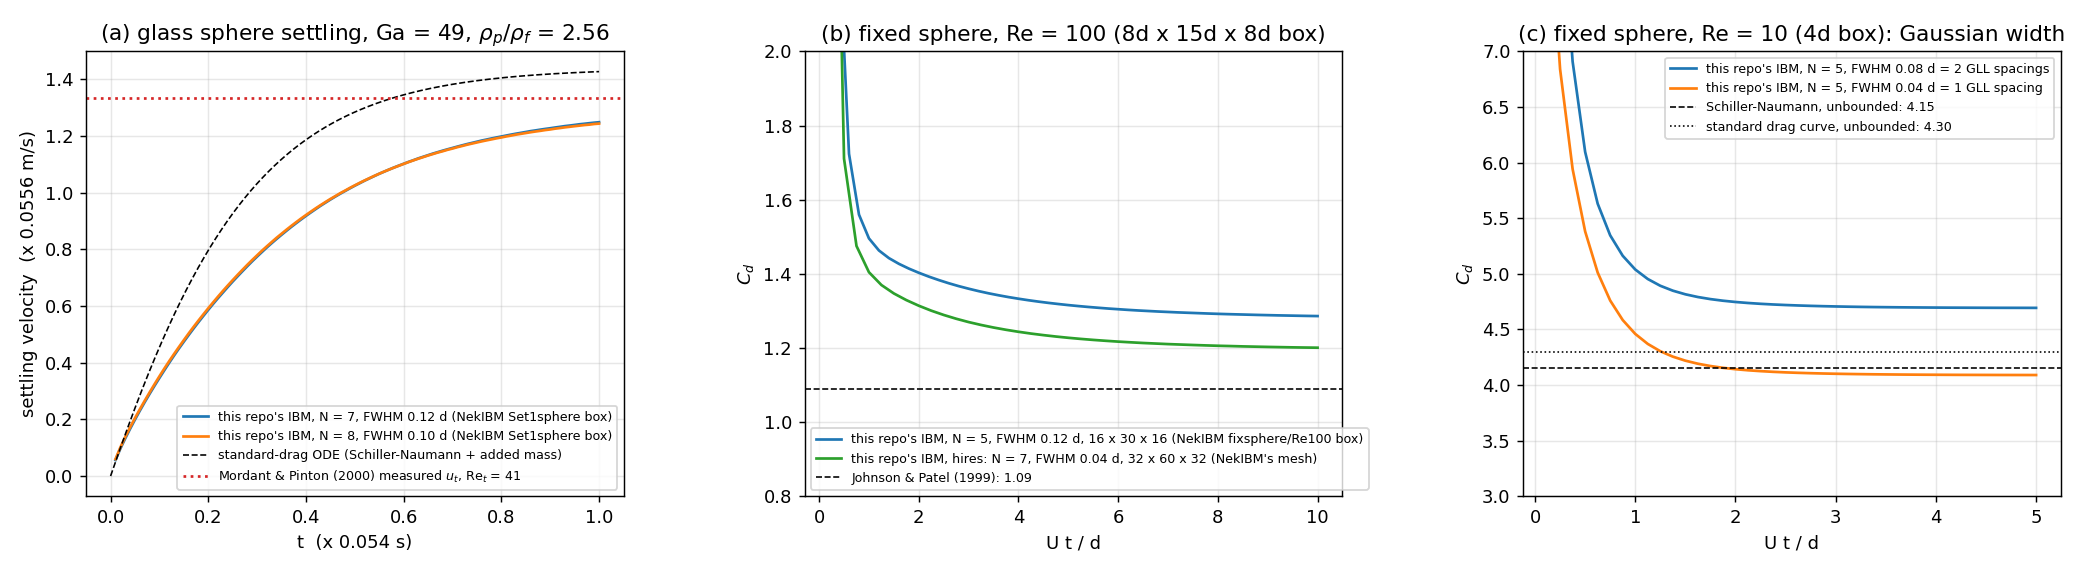
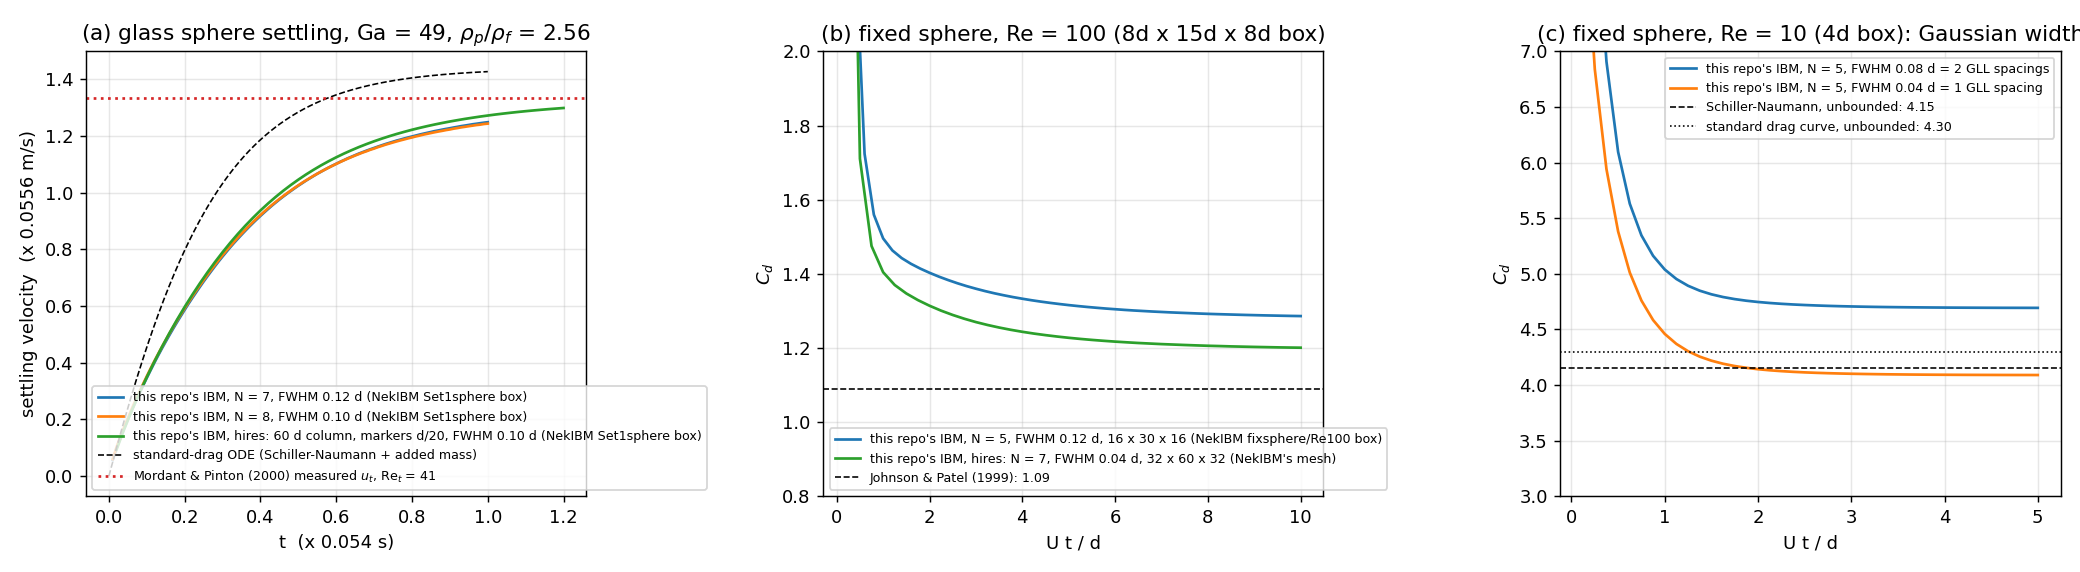
Settling sphere on NekIBM's mesh (Tuolumne, 16 GPUs): u_t within 2.5 % of Mordant & Pinton

diff --git a/docs/design.md b/docs/design.md
@@ -565,7 +565,7 @@ with the wake behind it.
 
 | case | NekIBM input | reference | this repo | notes |
 |---|---|---|---|---|
-| settling glass sphere, Ga 49.1, rho_p/rho_f 2.56 | `Set1sphere` (nu 0.005416, d 1/6, g 9.81, 1.2 x 1.2 cross-section periodic) | Mordant & Pinton: Re_t = 41, u_t = 1.332 | u = 1.249 at t = 1 (N = 7, FWHM 0.12 d), 1.244 (N = 8, FWHM 0.10 d); Re 38.4, force at 98 % of the net weight | 6 % slow; filter-insensitive (0.4 %); the 7.2 d lateral period hinders settling by up to 14 % in the Stokes limit (Hasimoto, phi^(1/3) = 0.083), less at Re 41; standard-drag ODE gives 1.427 (Re 44), 7 % above the measurement |
+| settling glass sphere, Ga 49.1, rho_p/rho_f 2.56 | `Set1sphere` (nu 0.005416, d 1/6, g 9.81, 1.2 x 1.2 cross-section periodic) | Mordant & Pinton: Re_t = 41, u_t = 1.332 | u = 1.249 at t = 1 (N = 7, FWHM 0.12 d, laptop), 1.244 (N = 8, FWHM 0.10 d); on NekIBM's mesh (`hires`: 21 x 180 x 21, N = 7, markers d/20, 60 d column, Tuolumne 16 MI300A) u = 1.273 at t = 1 and 1.299 at t = 1.2 (Re 40.0), still rising slowly | −6 % → −2.5 % with resolution; filter-insensitive (0.4 %); the 7.2 d lateral period (same in `hires`) hinders settling by up to 14 % in the Stokes limit (Hasimoto, phi^(1/3) = 0.083), less at Re 41; standard-drag ODE gives 1.427 (Re 44), 7 % above the measurement |
 | fixed sphere, Re 100 | `fixsphere/Re100` box (8d x 15d x 8d, inflow/outflow in y, periodic x, z) | Johnson & Patel: C_d = 1.09, standing eddy 0.87 d | C_d = 1.286 at U t/d = 10 (N = 5, FWHM 0.12 d, 16 x 30 x 16 elements, laptop), eddy 1.00 d; C_d = 1.201, eddy 0.95 d on NekIBM's mesh (`hires`: 32 x 60 x 32, N = 7, FWHM 0.04 d, Tuolumne, 8 MI300A) | +18 % → +10 % with the sharper interface (marker slip 3.9 % → 2.8 %); C_d still falling by 0.002 per d/U at U t/d = 10, so part of the rest is the developing wake |
 | fixed sphere, Re 10 | `simple` box (4d)^3 | standard drag 4.15–4.3 | C_d = 4.69 with FWHM 0.08 d (two GLL spacings, marker slip 18 %), 4.09 with FWHM 0.04 d (one spacing, slip 31 %) | the two widths bracket the reference: a wide Gaussian enlarges the body, a one-cell one under-enforces no-slip; converging needs a finer grid, not a narrower filter |
 
@@ -573,10 +573,12 @@ What this shows: with NekIBM's own set-ups the IBM reproduces the reference
 drag and settling velocity to 6–18 % on the laptop grids, with the sign and
 size expected from the Gaussian interface width at d/10 resolution (fixed
 spheres) and from the periodic-array hindrance of NekIBM's narrow column
-(settling). On NekIBM's own Re 100 mesh (section 6, Tuolumne) the drag
+(settling). On NekIBM's own meshes (section 6, Tuolumne) the Re 100 drag
 error halves to +10 % and the standing eddy shortens from 1.00 d to 0.95 d
-(reference 0.87 d), i.e. the interface width is the leading error and the
-scheme converges towards the reference as it is refined; the remaining
+(reference 0.87 d), and the settling sphere comes within 2.5 % of the
+measured terminal velocity (1.299 at t = 1.2, still rising, against
+1.332), i.e. the interface width is the leading error and the scheme
+converges towards the references as it is refined; the remaining
 offset at U t/d = 10 includes a still-developing wake (Johnson & Patel's
 value is the steady state). The paper's numbers were not available, so the
 comparison is to the experiments and correlations NekIBM itself used.
@@ -618,7 +620,10 @@ side dominates at 21M points). `pbatch` carried a backlog of several
 thousand jobs, so the Re 100 hires run went through `pdebug` on two nodes
 (2000 steps in 41 min, `cases/ibm_sphere_re100/hires/tuolumne_8gpu.log`, the
 `sphere:` history plus every 50th step time); the settling hires case waits
-in `pbatch` via `scripts/tuolumne_batch.sh`. ppiclF is pre-built on a login
+in `pbatch` via `scripts/tuolumne_batch.sh`; it was finally run in `pdebug` on
+4 nodes (16 GPUs, 2.5 s/step: 1.7x faster than 8 GPUs; 32 ranks segfaulted
+in the set-up, not pursued) for 1207 steps to t = 1.2
+(`cases/ibm_settling_sphere/hires/tuolumne_16gpu.log`). ppiclF is pre-built on a login
 node (gslib download) into `build/<case path with / as _>`; `| head` on a
 running job's output file closes the pipe and kills the job.
 

diff --git a/docs/validation.md b/docs/validation.md
@@ -34,7 +34,7 @@ scripts that make them in `../scripts/`.
 | V9 | plane jet from parcels vs Bickley | validation | `jet_bickley` | u_c within 3.5 % |
 | V10 | fixed sphere Re 10 (NekIBM `simple` box), filter-width bracket | validation | `ibm_fixed_sphere`, `_fine` | 4.09 / 4.69 vs 4.15–4.3 |
 | V11 | fixed sphere Re 100 vs Johnson & Patel, two resolutions | validation | `ibm_sphere_re100`, `hires` | C_d +18 % → +10 % |
-| V12 | settling glass sphere vs Mordant & Pinton | validation | `ibm_settling_sphere`, `_fine`, `hires` | u_t −6 % (laptop); hires running |
+| V12 | settling glass sphere vs Mordant & Pinton | validation | `ibm_settling_sphere`, `_fine`, `hires` | u_t −6 % (laptop), −2.5 % (NekIBM's mesh) |
 | V13 | separate EL and IBM filter widths (ppiclF patch 0006) | verification | `el_ibm_collision`, `ibm_sphere_re100` | equal widths: previous results reproduced; split: budget −4.5e-3 |
 | V14 | prescribed-motion body vs fixed body in a stream | verification | `ibm_sphere_moving` | C_d 1.257 ± 0.029 vs 1.289 |
 | V15 | sticking contact (attachment) momentum budget | verification | `el_ibm_adhesion` | 107/200 captured, budget −3.2e-3 as without |
@@ -543,17 +543,18 @@ scripts/run_case.sh cases/ibm_settling_sphere settle 4 --backend CPU | tee build
 |---|---|---|---|---|
 | laptop, N = 7 | 1.249 | 38.4 | 0.937 | 98 % |
 | `_fine`, N = 8, FWHM 0.10 d | 1.244 | 38.3 | 0.933 | |
-| hires, 60d column | pdebug run reached t = 0.79 (4.2 s/step on 8 GPUs); full run queued in pbatch | | | |
+| hires (NekIBM's mesh, 16 MI300A), at t = 1 / 1.2 | 1.273 / 1.299 | 39.2 / 40.0 | 0.956 / 0.975 | |
 | Mordant & Pinton | 1.332 | 41 | 1 | |
 
-**What it shows.** The sphere settles 6 % slower than measured and the
-result is insensitive to the filter width (0.4 %), so the deficit is not the
-interface. The 7.2d lateral period of NekIBM's box is a periodic array of
-spheres (φ^(1/3) = 0.083), which hinders settling by up to 14 % in the
-Stokes limit (Hasimoto) and less at Re 41, i.e. the right size and sign. The
-hires case has the same cross-section, so it tests the marker and grid
-resolution, not the column width; a wider periodic box would be the next
-check.
+**What it shows.** On the laptop grid the sphere settles 6 % slower than
+measured, insensitive to the filter width (0.4 %); on NekIBM's mesh
+(d/20, markers d/20) the deficit is 2.5 % at t = 1.2 with the velocity
+still rising slowly, so most of the laptop deficit was resolution after
+all, and what remains is of the size of the periodic-array hindrance of
+the 7.2d column (φ^(1/3) = 0.083: up to 14 % in the Stokes limit, Hasimoto,
+much less at Re 41). A wider periodic box would separate the two. The run
+was cut by the 60-min pdebug limit at step 1207 of 2000; 32 ranks segfault
+in the set-up (16 used).
 
 ## V13. Separate EL and IBM filter widths (`el_ibm_collision`, `ibm_sphere_re100`)
 

diff --git a/README.md b/README.md
@@ -88,7 +88,7 @@ the shared model in `src/`, or the patches change, and always relinks the UDF.
 | `tab_breakup` | TAB deformation/breakup on single droplets at We 10–300 | oscillation period within 0.5 % of analytic; no breakup below We 12; breakup time on the Pilch & Erdman initiation curve (1.17 vs 1.21 at We 18) |
 | `jet_modarress` | Modarress (1984) round particle-laden jet, Re 13 300 — set up for a GPU node | coarse-mesh smoke test only (full mesh does not link on macOS arm64) |
 | `ibm_fixed_sphere` | NekIBM's `IBM_test/simple`: fixed sphere at Re 10 in a 4d periodic box, on this repo's IBM | C_d 4.69 vs 4.15–4.3 unbounded (the excess is the 4d-box blockage); lateral force 1e-10 |
-| `ibm_sphere_re100`, `ibm_settling_sphere` (+ `_fine`) | NekIBM's own reference cases on this IBM: fixed sphere Re 100 (Johnson & Patel 1.09) and the Mordant & Pinton settling glass sphere (Ga 49, Re_t 41) | C_d 1.29 (+18 %, diffuse interface at d/10) on the laptop grid, 1.20 (+10 %) on NekIBM's mesh (`hires`, Tuolumne, 8 MI300A); u_t 6 % slow (7.2 d periodic column), filter-insensitive; see design doc §5d, §6 |
+| `ibm_sphere_re100`, `ibm_settling_sphere` (+ `_fine`) | NekIBM's own reference cases on this IBM: fixed sphere Re 100 (Johnson & Patel 1.09) and the Mordant & Pinton settling glass sphere (Ga 49, Re_t 41) | C_d 1.29 (+18 %, diffuse interface at d/10) on the laptop grid, 1.20 (+10 %) on NekIBM's mesh (`hires`, Tuolumne, 8 MI300A); u_t 6 % slow on the laptop grid, 2.5 % slow on NekIBM's mesh (`hires`, Tuolumne, 16 MI300A, t = 1.2); see design doc §5d, §6 |
 | `ibm_sphere_moving` | prescribed-motion sphere through fluid at rest (Pilobolus step 2) | C_d 1.26 ± 0.03 vs 1.29 for the fixed sphere in a stream on the same grid; ±2 % grid-crossing oscillation |
 | `ibm_sphere_re300` | fixed sphere Re 300 on the hires mesh (prepared; Tuolumne) | Johnson & Patel C_d 0.656, St 0.137 |
 | `el_ibm_adhesion` | the collision case with sticking contact (Pilobolus step 5) | 107/200 captured, none inside or bounced, momentum budget −3.2e-3 as without attachment |
